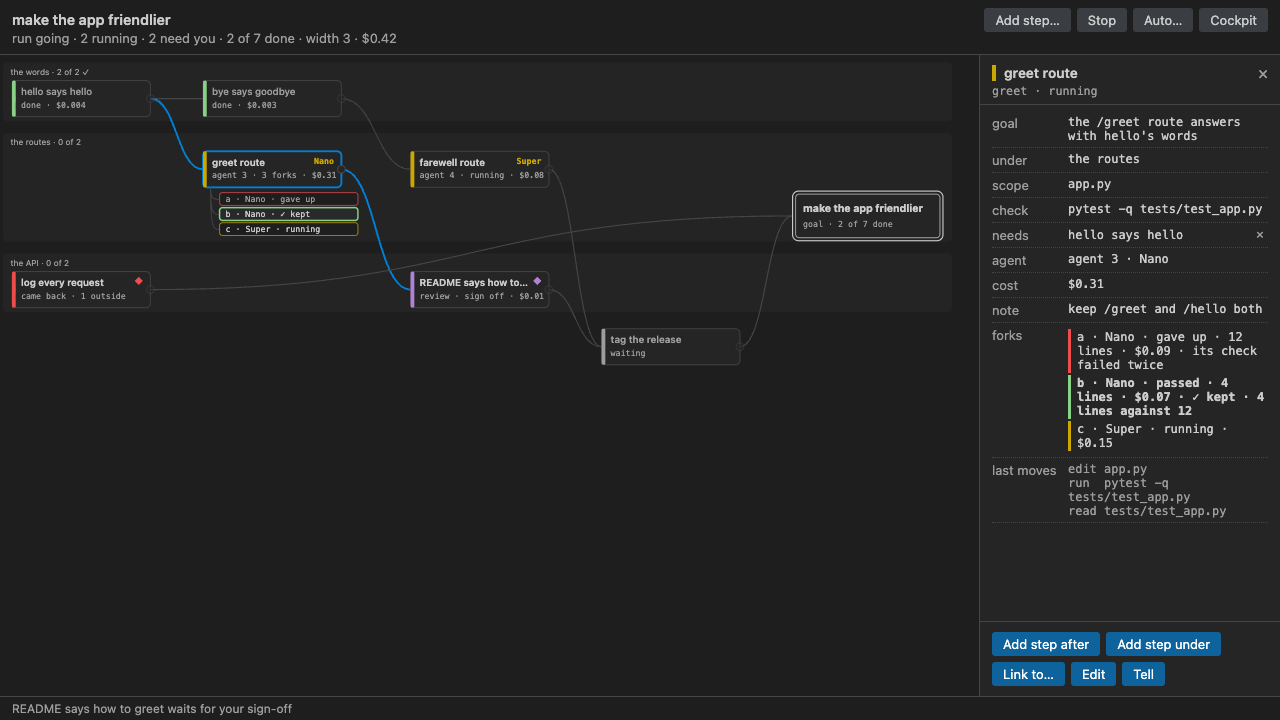
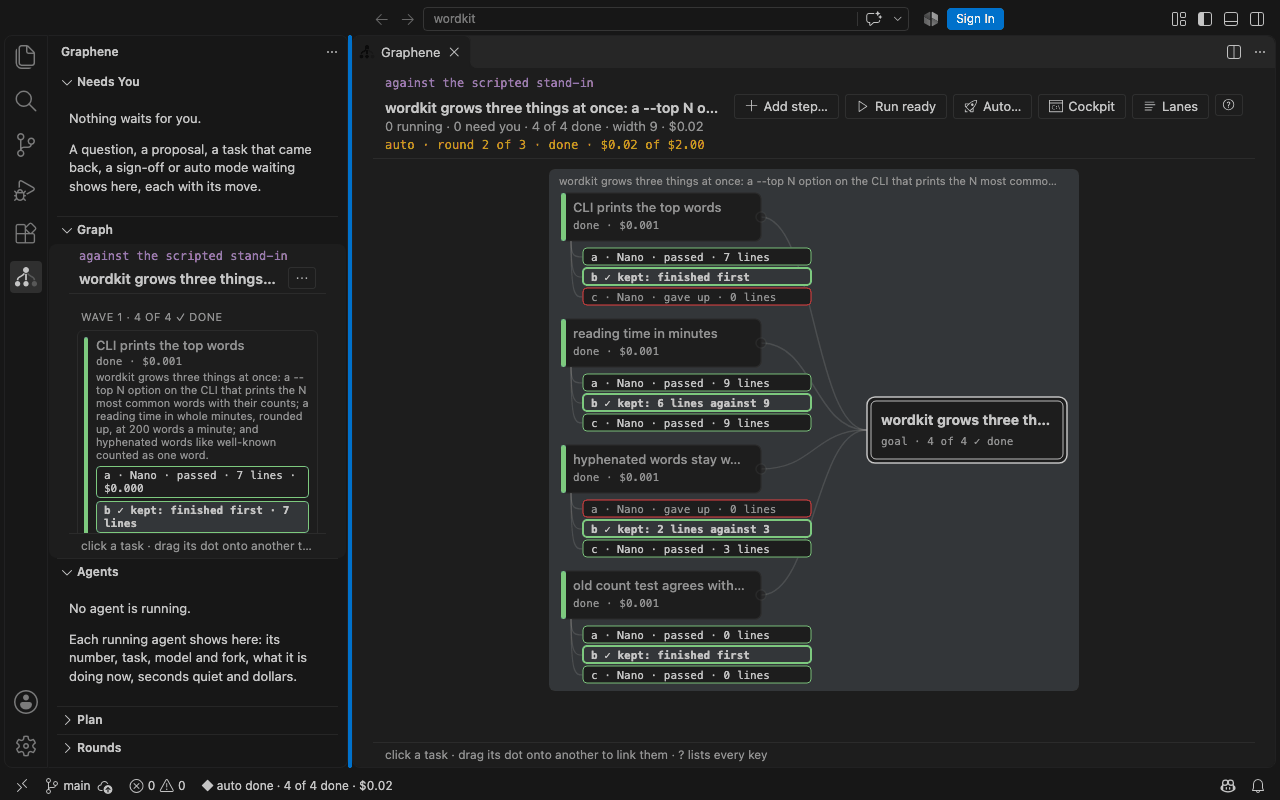
docs: the editor as it is, in real VS Code and Cursor
The README's VS Code section shows the night's extension shot by the
harness in real VS Code (dev/process/editor/after, copied over the
extension's picture), says what it does now in a few sentences, and
sends people to the .vsix on the latest release. Cursor is no longer
untried: 3.25.6 installs and activates it, and the end-to-end check
passes there. The listing page names every command and view the
manifest declares. HACKATHON, COMPARE and claims.md say what was
built and measured tonight and nothing that did not run: no live
take, a model session as the stranger, the smallest text measured
before and after.

diff --git a/editors/vscode/README.md b/editors/vscode/README.md
@@ -1,33 +1,34 @@
 # Graphene for VS Code
 
 Watch and steer a team of coding agents from your editor. Graphene holds each agent to one task, one set of
-files and one check; this extension shows the plan as a graph, the agents as they work, and what needs you.
+files and one check. This extension shows what needs you, the agents as they work, and the plan as a graph.
 
-![the graph: a running plan with three forks on one task, the kept one marked](media/graph.png)
+![Real VS Code after a race against the scripted stand-in: the graph in an editor tab, four tasks done, each with its three forks and the kept one's reason, flowing into the goal; the side bar's Needs You, Graph and Agents views](media/graph.png)
 
-It works in VS Code and in Cursor. It is a thin client over the `graphene` command: everything it shows is
-`graphene state --json`, and everything it changes is one `graphene` command, the same ones the terminal cockpit
-runs.
+It is a thin client over the `graphene` command. Everything it shows is `graphene state --json`, streamed with
+`--watch`, and everything it changes is one `graphene` command, the same ones the terminal cockpit runs.
 
 ## What you can do
 
-- **See what needs you first.** The sidebar leads with questions, proposals, hand-backs and sign-offs. Answer a
-  question from its options or in your own words, accept or drop a proposal, take up a hand-back, sign off from
-  the diff. Nothing sends you to the terminal.
-- **Watch the agents.** The Agents view lists every running agent: its number, task, model and fork, what it is
-  editing now, seconds quiet and dollars. Click one for its changes so far.
+- **See what needs you first.** Needs You leads the side bar: a question, a proposal, a task that came back, a
+  sign-off, your own task, auto mode waiting. Each row has its move inline. Answer a question from its options
+  or in your own words, accept or drop a proposal, take up a hand-back, sign off from the diff, set a missing
+  key. Nothing sends you to the terminal.
+- **Watch the agents.** Agents lists every running agent: its number, task, model and fork, what it is editing
+  now, seconds quiet and dollars. Click one for its changes so far.
 - **Open any change in the diff editor.** A task or a fork opens against its base in VS Code's own diff editor.
-  A race's forks open side by side; keep one from there.
-- **Read the race in the graph.** Tasks by state flow left to right into your goal; a forked task fans out into
-  its forks with their progress, and the kept one says why it won. It is readable in the sidebar and in a tab.
-- **Edit the plan as text.** Edit Plan opens the plan's text form in an editor tab; saving applies it, and a
-  refusal shows up as a diagnostic on its line.
-- **Add a step in a sentence.** Type one line; the planner proposes the step with its scope, check and needs,
-  and it waits for your accept.
+  A race's forks open side by side, and Keep This Fork and Sign Off sit in the diff's title.
+- **Read the race in the graph.** Tasks flow left to right into your goal. A forked task fans out into its forks
+  with their lines, dollars and seconds quiet, and the kept one says why it won. A task that came back is red,
+  with why. Narrow, the side bar draws the plan as lanes, wave by wave. Nothing is drawn under 11 px.
+- **Edit the plan as text.** Edit Plan as Text opens the plan's text form in an editor tab. Saving applies it,
+  all or none, and a refusal shows as a diagnostic on its line.
+- **Add a step in a sentence.** Type one line. The planner proposes the step with its scope, check and needs,
+  and it waits for your accept. Add Step by Hand keeps the four boxes.
 - **See whose file this is.** The Explorer marks each file a task owns, a running task's with its agent's
-  number. Open such a file and the editor offers a diff with the agent's copy.
-- **Try it with no key.** Graphene: Watch the Demo plays a scripted run in the graph, with no model and no
-  network, and says so in its header.
+  number. Open such a file and the status bar offers a diff with the agent's copy.
+- **Try it with no key.** Graphene: Watch the Demo plays a scripted run in a graph of its own, with no model
+  and no network, and its header says so.
 
 ## Install
 
@@ -37,28 +38,37 @@ runs.
    uv tool install graphene-map
    ```
 
-   The extension offers to run this for you when it cannot find `graphene`.
+   The extension offers to run this for you when it cannot find `graphene`. It looks on the PATH, in
+   `~/.local/bin` and in uv's tool directory first.
 
-2. This extension, from the `.vsix` on [the release](https://github.com/Alex-lop/Graphene/releases/latest),
+2. This extension, from the `.vsix` on [the latest release](https://github.com/Alex-lop/Graphene/releases/latest),
    or from the Marketplace (VS Code) and Open VSX (Cursor) once it is published there:
 
    ```sh
    code --install-extension graphene-0.8.0.vsix      # Cursor: cursor --install-extension graphene-0.8.0.vsix
    ```
 
-3. Open a folder. `Graphene: Set Up This Folder` runs `graphene init` in a terminal and asks who plans and who
-   does the work: Nemotron on Token Factory, Claude Code, Codex, or any model behind Graphene's own loop. Then
-   `Graphene: Auto…` takes a goal and a budget.
+3. Open a folder. `Graphene: Set Up This Folder` asks who plans and who does the work, in two picks: Nemotron on
+   Token Factory, Claude Code, Codex, or a command of your own. It runs `graphene init` in a terminal. Then
+   `Graphene: Auto…` takes a goal and a budget, and plans first.
 
 The Welcome page's **Get started with Graphene** walks through these, each step a button.
 
+## Editors
+
+VS Code 1.95 or later. In Cursor 3.25.6 (VS Code 1.128) the `.vsix` installs and activates, and the harness's
+end-to-end check passes there (`editors/vscode/e2e`). Cursor's agent layout hides the primary side bar; in its
+classic layout the views look as they do in VS Code.
+
 ## Views
 
-- **Needs You**: questions, proposals, hand-backs, sign-offs and auto mode waiting, each with its move inline.
-- **Agents**: every running agent, what it is doing, seconds quiet and dollars.
+- **Needs You**: questions, proposals, hand-backs, sign-offs, your own tasks and auto mode waiting, each with
+  its move inline, and a badge with the count.
+- **Graph**: the plan as a graph, in the side bar and as an editor tab (`Graphene: Show Plan Graph`); `?` lists
+  its keys.
+- **Agents**: every running agent, what it is doing, seconds quiet and dollars, and a badge with the count.
 - **Plan**: goal, sub-goals and tasks with a codicon per state and `model · forks · $` beside each.
 - **Rounds**: auto mode's iterations, what the envelope accepted, which fork each task kept and what landed.
-- **Graph**: the plan as a graph, in the sidebar and as an editor tab (`Graphene: Show Plan Graph`).
 - **Explorer** marks and a **status bar** item: `◆ 2 running · 1 needs you · $0.42`; click it for the graph.
 
 ## Commands
@@ -74,6 +84,8 @@ All under `Graphene:` in the command palette; most are also in the views' menus 
 | Accept / Accept All | a proposal, or all of them |
 | Take Up the Hand-Back… | a task that came back: widen it, reopen its owner, or try again |
 | Sign Off | a task waiting on you, from its diff |
+| Mark Your Task Done | a task of your own: `graphene node done` in a terminal, where its check runs |
+| Set Key… | `graphene key set` in a terminal, a hidden prompt; offered when a run waits on a key |
 | Open Changes / Compare Forks / Keep This Fork | a task or fork in the diff editor; a race side by side; the one to keep |
 | Edit Plan as Text | the plan's text form in an editor tab; save applies it |
 | Add Step… | one sentence; the planner proposes the step |
@@ -81,7 +93,7 @@ All under `Graphene:` in the command palette; most are also in the views' menus 
 | Link… / Edit Step… / Drop Step | B waits on A; title, scope or check; drop it (`graphene plan undo` puts it back) |
 | Tell Agent… | one line a hooked agent reads before its next write |
 | Diff with the Agent's Copy | the open file against the running agent's version |
-| Watch the Demo | a scripted run in the graph, no key and no network |
+| Watch the Demo | a scripted run in a graph of its own, no key and no network |
 | Show Plan Graph / Open Cockpit | the graph as a tab; `graphene watch` in a terminal |
 | Set Up This Folder / Install Graphene… / Refresh | `graphene init`; `uv tool install graphene-map`, after you say yes; read the plan again |
 
@@ -106,12 +118,15 @@ All under `Graphene:` in the command palette; most are also in the views' menus 
 - **A click in VS Code is the person's.** An editor started from an agent's shell inherits the agent's marks
   (`CLAUDECODE`, `CODEX_SESSION_ID`, …); the extension takes them out of everything it runs, so your accept
   is a person's.
+- **The demo stays out of your folder.** Watch the Demo plays into a directory under the OS temp dir, and
+  closing its graph removes it.
 
 ## Limits
 
 - It needs Graphene 0.9 or later for the Agents view, the diffs, the text plan and the demo; with an older CLI
   each view says what the CLI said, and the plan is polled instead of streamed.
 - One plan per window: the first workspace folder with a store.
+- Nobody has used it on a real run yet. It was built and checked against a fixture and a scripted stand-in.
 
 Source, issues and the CLI: [github.com/Alex-lop/Graphene](https://github.com/Alex-lop/Graphene). Licence
 Apache-2.0.

diff --git a/docs/HACKATHON.md b/docs/HACKATHON.md
@@ -54,8 +54,10 @@ lands. Then the goal's own check runs on the merged result, and when it is red U
 rounds you allowed. Token Factory is what makes a race on every task affordable: the replay's whole run, two plans
 by Ultra and twelve Nano forks, cost $0.02 at the scripted stand-in's prices (`tests/test_demo_auto.py`), and
 `graphene demo --auto` replays it with no key. The same plan, forks racing, shows in VS Code (`editors/vscode`):
-drag one task's dot onto another to link them, the Explorer marks each file a running agent writes with its
-number, and every click is a `graphene` command run as you.
+Needs You first, each thing that waits for you with its move; every running agent with what it edits, its
+seconds quiet and its dollars; a task's changes in the diff editor; and every click a `graphene` command run as
+you. The `.vsix` is on each GitHub release, and a harness drove it in real VS Code 1.143.1 and Cursor 3.25.6
+(`editors/vscode/e2e`).
 
 **On NVIDIA Nemotron, through Nebius Token Factory: the path built for this hackathon.** `graphene init --planner
 nemotron --executor nemotron` reads Token Factory's live model list: Nemotron 3 Ultra plans, Nano does the tasks,
@@ -154,7 +156,11 @@ runs unless you run it, or set `GRAPHENE_SHAPE` to run them after each `graphene
   own settings and hooks; the goal's check is a root sub-goal's, run after its tasks land; each round is a row of
   the plan's log, so the history is there the morning after (`tests/test_auto_run.py`, `tests/test_auto_nemotron.py`).
 - **The editor** is a thin client: Graphene for VS Code (`editors/vscode`, TypeScript, no runtime dependencies)
-  reads `graphene state --json`, the cockpit's own snapshot, and runs `graphene` commands for every change.
+  reads `graphene state --json`, the cockpit's own snapshot, streamed with `--watch`, and runs `graphene`
+  commands for every change. A harness (`editors/vscode/e2e`, Playwright's Electron driver) installs the
+  `.vsix` in a profile of its own in real VS Code and Cursor, races a fixture against the scripted stand-in and
+  measures what it sees. The before and after of 27 October are in `dev/process/editor/`: the smallest text the
+  side bar drew went from 4.61 px at 280 px wide to 11 px at every width and theme.
 - **Any OpenAI-compatible host**: the same Nemotron loop runs on NVIDIA's API catalog (NIM), Ollama or any other
   host with `--endpoint`, the writes held the same way; only a host on your machine counts as a stand-in.
 - **Built the way it is meant to be used.** I set the direction and coding agents do much of the writing, in lanes,
@@ -183,6 +189,11 @@ runs unless you run it, or set `GRAPHENE_SHAPE` to run them after each `graphene
   `.git/hooks/` (on a Mac's case-blind disk, `.CLAUDE/` and `.GIT/` too); a planner's check run unread (now one
   plain command, or one you name in `checks:`); an agent's own `graphene run` outside the budget; and a task whose
   check already passed before any work, which would have landed with nothing done (`dev/process/revamp/README.md`).
+- **A stranger's first hour hit the key.** A model session that had never seen Graphene, on 0.8.0's extension
+  with a stand-in in place of Token Factory, took 11 minutes to its first graph and 28 to its first accept from
+  it, with nine guesses. The worst wall was a 401 that no surface said how to fix
+  (`dev/process/editor/before/stranger.md`). Now the refusal names `graphene key set`, the extension offers Set
+  Key, Auto… leads with Plan first, and a task that came back can be dropped from the editor.
 - **Where the agent loop runs decides what can be refused.** With Graphene's own loop on your machine and the
   tools in the sandbox, an out-of-scope write was refused in Graphene's words before it happened, 3 runs of 3.
   With a harness inside the sandbox (OpenCode 1.18.31), Graphene never heard of it in 3 of 3, the key sat where
@@ -246,8 +257,9 @@ while one the repository cannot answer is open (`dev/test/results-2026-09-29-boa
 
 - A live take of auto mode on Token Factory, filmed for the video: auto mode has run end to end only against the
   scripted stand-in so far. And an hour of a real person on it, timed: no person has been timed yet.
-- Graphene for VS Code on the Marketplace and Open VSX, and the graph's gestures (add a step, link two) answering
-  a board question too.
+- Graphene for VS Code on the Marketplace and Open VSX: the workflow is written, the listing is the publisher's
+  own step. And a person on the editor, timed: tonight's stranger was a model session, and the harness measured
+  pixels and seconds, not a person.
 - Whether a race of three Nanos lands more tasks than one, measured on the same tasks with its pass rate and its
   dollars; the held bench has the question written down (`dev/held/rules.md`).
 - `t` heard mid-task by Nemotron's executor, as Claude Code hears it; today it is told at the task's next start.
@@ -284,7 +296,9 @@ August 2026.
   its next write. 17 and 18 October, `graphene watch` became the cockpit, and agents go by numbers, kept by their
   task through a retry. 20 October, forks: several agents on one task, a rule keeping one. 26 October, auto mode
   inside an envelope, the race on screen with each agent's model, Graphene for VS Code, and any OpenAI-compatible
-  host behind Graphene's own loop.
+  host behind Graphene's own loop. 27 October, Graphene for VS Code led by Needs You and Agents, diffs in the
+  diff editor, the plan as text, a step in a sentence, the demo in the editor, a harness that drives real VS
+  Code and Cursor, and the gate judging a write where it lands.
 
 Commands: `git rev-list --count --until='2026-08-26T16:00:00Z' 921834de`, `git rev-list --count
 --since='2026-08-26T16:00:00Z' 921834de`, and `git blame --line-porcelain 921834de` over its `src/*.py`, counting
@@ -369,6 +383,8 @@ checked again since.
 | 2 ms on this repository's plan, 53 ms at 22,000 log rows | `tests/test_cockpit_cost.py`, its docstring |
 | auto mode: 2 rounds, 4 tasks landed, 12 forks raced, $0.0193 at the stand-in's prices | `tests/test_demo_auto.py` (the scripted stand-in, no model ran) |
 | 27,469 lines, none before the period; 181 and 971 commits | git, the commands above, at `921834de` |
+| a stranger on 0.8.0's extension: 11 minutes to the first graph, 28 to the first accept from it, 9 guesses | `dev/process/editor/before/stranger.md` (one model session with a driver, not a person; a stand-in in place of Token Factory) |
+| the side bar's smallest text, 4.61 px at 280 px wide before and 11 px at every width after; 2.69 s from install to the first graph and p50 574 ms from a store write to the screen, before | `dev/process/editor/before/README.md`, `dev/process/editor/after/code-smallest-text.json` (the harness, `editors/vscode/e2e/measure/`) |
 | the questions against the paragraph; the plan against the paragraph with Nemotron | none yet: registered in `dev/test/results-2026-09-28-shaping.md` and `dev/test/results-2026-09-28-live-prereg.md` |
 
 ## Testing instructions
@@ -385,6 +401,10 @@ uvx --from graphene-map graphene demo --cheat  # a script tries seven ways round
 In the cockpit, `j` and `k` move, `i` opens the details, `g` the graph, `m` the map, `c` the cockpit again, `?`
 lists the keys and `q` leaves; in a replay, space pauses, `.` steps and `r` plays it again. Keys that would change
 the plan say "a replay: nothing runs here".
+
+In VS Code, with no key: install the `.vsix` attached to the latest GitHub release (`code --install-extension`),
+open any folder, and run `Graphene: Watch the Demo` from the command palette. The auto replay plays in a graph
+of its own, and its header says it is a stand-in's.
 
 Both live Nemotron runs on Token Factory, replayed with no key, from a clone (`--live` is the first):
 

diff --git a/dev/launch/claims.md b/dev/launch/claims.md
@@ -3,7 +3,7 @@
 Each claim names the file that shows it and how strong the showing is: **measured** (a number from a run that
 could have gone the other way), **shown** (a test or a command anyone can run), **stand-in** (a scripted or model
 reader, not a person), or **not shown**. Written 15 October 2026 for the 0.5.1 launch, with the hackathon's
-Nemotron claims added on 18 October; re-read before posting.
+Nemotron claims added on 18 October and the editor's on 27 October; re-read before posting.
 
 ## May be said
 
@@ -30,8 +30,10 @@ Nemotron claims added on 18 October; re-read before posting.
 | Auto mode on the Nemotron path ran end to end against the scripted Token Factory: three tasks, nine forks at once, the goal's check red, Ultra's fix, the suite green, $0.0193 at the stand-in's prices | tests/test_demo_auto.py; `graphene demo --auto` | shown; a scripted stand-in, no model ran; no live auto run |
 | In auto mode, a round waits for the person when a task it can start has a check that passes before any work (it would land with nothing done) | tests/test_auto_run.py | shown, with scripted agents; a task that waits on another is not checked first |
 | Every agent's row names its model, and each fork its own, with its dollars | tests/test_race_read.py, tests/test_race_rows.py | shown, with scripted agents and the recordings |
-| Graphene for VS Code shows the plan as a graph and runs a `graphene` command for every change; it activated and registered its commands in VS Code 1.143 | editors/vscode/test/*.test.ts, editors/vscode/test/smoke.cjs; tests/test_vscode_cli.py | shown; not on the Marketplace, not tried in Cursor |
-| In the graph a drag from one task's dot onto another links them, and an × unlinks; the Explorer marks each file a running task writes with its agent's number, reading scope globs as the CLI does | editors/vscode/test/commands.test.ts, editors/vscode/test/owners.test.ts, tests/test_vscode_cli.py, tests/test_vscode_scope_parity.py | shown: the argv on the real CLI, the globs against 208 of its answers; the drag tried in the preview page in Chromium, not in VS Code; the marks not yet seen on a live run |
+| Graphene for VS Code shows what needs you first, every running agent, the plan as a graph and a task's changes in the diff editor, and runs a `graphene` command for every change; its `.vsix` installed, activated and drew a plan's tasks in real VS Code 1.143.1 and Cursor 3.25.6, driven by the harness | editors/vscode/test/*.test.ts; editors/vscode/e2e (`npm test`, and with `E2E_APP=cursor`); tests/test_vscode_cli.py, tests/test_editor_*.py | shown, with a fixture and the scripted stand-in; no person has used it; not on the Marketplace or Open VSX yet |
+| In the graph a drag from one task's dot onto another links them, and an × unlinks; the Explorer marks each file a running task writes with its agent's number, reading scope globs as the CLI does | editors/vscode/test/commands.test.ts, editors/vscode/test/owners.test.ts, tests/test_vscode_cli.py, tests/test_vscode_scope_parity.py; dev/process/editor/take/beat6-editor-explorer-owners.png | shown: the argv on the real CLI, the globs against 208 of its answers; the marks seen in the harness's VS Code during a stand-in race; the drag tried in the preview page in Chromium, not in VS Code |
+| The smallest text the extension draws in the side bar went from 4.61 px at 280 px wide to 11 px at every width and theme, and in the tab from 10.74 to 11 px | dev/process/editor/before/README.md, dev/process/editor/after/code-smallest-text.json (`editors/vscode/e2e/shots.mjs`, the same script both times) | measured by the harness, before and after |
+| A stranger on 0.8.0's extension took 11 minutes to its first graph and 28 to its first accept from the graph, with 9 guesses; the worst wall was a missing key no surface said how to set | dev/process/editor/before/stranger.md | stand-in: one model session with a driver, not a person; on 0.8.0, before the night's changes |
 | A cloned folder's own settings cannot choose the binary Graphene for VS Code runs, the extension is off in a folder VS Code does not trust, and its hovers show the plan's words as text, never as links or images | tests/test_vscode_packaging.py, editors/vscode/test/state.test.ts | shown: the manifest and the escaping; the hovers not looked at in VS Code |
 | The same Nemotron loop runs on NVIDIA NIM, Ollama or any OpenAI-compatible host, writes refused the same way; an agent's call to a paid host off this machine is refused without the opening | tests/test_anymodel_endpoints.py | shown against the scripted host; no live call to NIM, Ollama or another host |
 | Every agent a run starts gets a `PORT` of its own, per task and per fork, given to its check too | tests/test_anymodel_ports.py | shown, with scripted agents |
@@ -44,6 +46,13 @@ Nemotron claims added on 18 October; re-read before posting.
 - "The only tool that...", "nobody else does this", "best controller". A per-task file scope with checks exists for
   another agent (my-pi) and a kernel write lock for nine agents (Ralon): docs/COMPARE.md, dev/PRODUCT_THESIS.md.
 - Anything about real people's speed or ease. No person has been timed: dev/process/first-hour.md is how to get one.
+- That a person has used the editor, or how long one takes on it. The stranger of 27 October was a model session,
+  and the harness measured pixels, seconds and CPU, not a person.
+- That the editor got faster. The after measured the smallest text; the first graph, the latency and the idle
+  CPU are measured on the before only (dev/process/editor/before/README.md) until the same scripts are run on
+  the after and written beside it.
+- That the extension is on the Marketplace or Open VSX. The workflow is written (docs/RELEASING.md); the listing
+  is a step the publisher takes.
 - That the demo is a real model run, or that the replay's dollars are real costs.
 - That a hook cannot be bypassed. It fails open if it cannot run on a Claude Code before 2.1.295, or where `graphene
   init` ran from a script (from 2.1.295, `init` at a terminal makes it fail closed); git catches the change at done

diff --git a/docs/COMPARE.md b/docs/COMPARE.md
@@ -17,7 +17,7 @@ Teams were read from their docs on 18 October ([`field.md`](../dev/process/publi
 
 | | A plan before code | The files a piece may change | A check the tool runs itself | A look at the diff before the merge |
 |---|---|---|---|---|
-| **Graphene**, with Claude Code | a tree you edit and accept | per leaf; a write outside is refused before it happens (Claude Code, and Graphene's own loop for Nemotron and the other hosts; git catches the rest at `done`) | yes, in a clean copy | a leaf marked for sign-off, or every leaf under `review: every`, waits on its branch, and `i` then `c` in the cockpit shows its diff |
+| **Graphene**, with Claude Code | a tree you edit and accept | per leaf; a write outside is refused before it happens (Claude Code, and Graphene's own loop for Nemotron and the other hosts; git catches the rest at `done`) | yes, in a clean copy | a leaf marked for sign-off, or every leaf under `review: every`, waits on its branch, and `i` then `c` in the cockpit shows its diff; in VS Code, Open Changes shows it in the diff editor, and Needs You lists what waits for you |
 | Claude Code, by itself | plan mode; its docs say it is not enforced in interactive sessions where bypass is available | static allow and deny rules, not per piece | only if you write a hook | see Agent View |
 | Claude Code Agent View | each session's own; it is "one screen for all your background sessions: what's running, what needs your input, and what's done" | each session's allow and deny rules | no; a row's pull request label is coloured by its checks | "`Ready for review` and `Needs input` above `Working` and `Completed`", and no diff column |
 | Claude Code Agent Teams (experimental) | a shared task list; a teammate's plan can be approved "without the lead reviewing it" | by convention: "Two teammates editing the same file leads to overwrites. Break the work so each teammate owns a different set of files." | a task is done by its status ("Task status can lag"); a `TaskCompleted` hook you write can block it | not read |
@@ -36,7 +36,7 @@ Teams were read from their docs on 18 October ([`field.md`](../dev/process/publi
 
 | | Attempts at once | Who keeps one |
 |---|---|---|
-| **Graphene** | `forks: N` on a task, `graphene run --forks N`, or the `forks` setting: N agents, each in a copy of its own | the task's check runs on each; among the forks that pass, a rule written before any ran keeps one (`src/graphene_map/pick.py`: the one that passes the most of the others' tests, then the one that left its check's files alone, the smaller, the cheaper, the sooner) and says which step decided; on a task in review the person can pick another (`graphene node pick`) |
+| **Graphene** | `forks: N` on a task, `graphene run --forks N`, or the `forks` setting: N agents, each in a copy of its own | the task's check runs on each; among the forks that pass, a rule written before any ran keeps one (`src/graphene_map/pick.py`: the one that passes the most of the others' tests, then the one that left its check's files alone, the smaller, the cheaper, the sooner) and says which step decided; on a task in review the person can pick another (`graphene node pick`; in VS Code, Compare Forks opens them side by side and Keep This Fork picks one) |
 | Codex cloud | "generate multiple responses simultaneously for a single task" (OpenAI's X account, 13 June 2025, as its community forum quotes it; its docs pages read say nothing of it) | the person: "explore possible solutions and pick the best approach" |
 | Cursor | "multiple agents in parallel" on one prompt (its changelog for 2.2, 10 December 2025) | Cursor: it evaluates every run once they have all finished and recommends one; "The selected agent will have a comment explaining why it was picked." The entry names no check and does not say what judges |
 | VS Code 1.143 (Compare Models, preview) | "Add between two and 10 attempts", each "in its own Git worktree" (code.visualstudio.com/docs/agents/run/compare-models, read 26 October 2026) | an optional judge model "evaluates the attempts and recommends a solution", whose assessment, its page says, "isn't proof that an implementation is correct"; then the person, or Synthesize |
@@ -69,7 +69,8 @@ the check it must pass, a write outside those files refused as it happens, the c
 and a piece landed only when it passes, on your machine with no account. That is the claim, and it is scoped: my-pi
 has a per-task file scope with checks for another agent, and Ralon locks writes more strongly than a hook does, from
 one static list. Claude Code's Agent View gives every session a row and its Agent Teams a shared task list; both
-leave the files to convention. Nobody here is "the only one".
+leave the files to convention. Graphene for VS Code's Needs You and Agents views are those two rows, held to a
+plan's files; nobody has used them on a real run yet. Nobody here is "the only one".
 
 What Graphene lacks, in this table: it holds a write before it happens only for Claude Code (for Codex and any other
 command, git finds it when the leaf is declared done); its hook fails open if it cannot run on a Claude Code before

diff --git a/README.md b/README.md
@@ -89,15 +89,21 @@ may write; `:auto <goal>` starts auto mode from the cockpit.
 
 ### In VS Code
 
-![Graphene for VS Code: the plan as a graph in an editor tab, a task's three forks with their models and the kept one, the details of the selected task, and the buttons that add a step after it, link it, edit it or tell its agent](https://raw.githubusercontent.com/Alex-lop/Graphene/main/editors/vscode/media/graph.png)
+![Graphene for VS Code after a race against the scripted stand-in, in real VS Code: the plan as a graph in an editor tab, four tasks done, each fanned out into its three forks with the kept one and why, flowing into the goal; the auto line says round 2 of 3, done, $0.02 of $2.00; in the side bar, Needs You with nothing waiting, the Graph as lanes, and Agents](https://raw.githubusercontent.com/Alex-lop/Graphene/main/editors/vscode/media/graph.png)
 
-The extension in [`editors/vscode`](https://github.com/Alex-lop/Graphene/blob/main/editors/vscode/README.md) shows
-the same plan in an editor tab and a sidebar: the graph, the forks racing, the rounds of auto mode, the status bar
-(`◆ 2 running · 1 needs you · $0.42`), and in the Explorer whose each file is, a running agent's marked with its
-number. Every click is a `graphene` command run as you: add a step, link two by dragging one's dot onto the other
-(an × unlinks them), edit, drop, accept, tell an agent, and **Graphene: Auto…** for a goal. It reads `graphene
-state --json`, so the cockpit and the editor never disagree. It is built for VS Code 1.95 and later, so its forks
-such as Cursor should load it (not tried there yet).
+The extension in [`editors/vscode`](https://github.com/Alex-lop/Graphene/blob/main/editors/vscode/README.md) is
+the same plan in your editor. Needs You comes first in the side bar: a question, a proposal, a task that came
+back, a sign-off, each with its move. Agents lists every running agent, what it edits now, its seconds quiet and
+its dollars. The graph shows the race: a task fans out into its forks as they work, and the kept one says why it
+won. A task's changes open in VS Code's own diff editor, a race's forks side by side. The plan opens as text, and
+saving applies it. Add Step takes one sentence, and the planner proposes the step. Watch the Demo plays the race
+with no key. Every click is a `graphene` command run as you, and it reads `graphene state --json`, the cockpit's
+own snapshot, so the two never disagree.
+
+Install the `.vsix` attached to [the latest release](https://github.com/Alex-lop/Graphene/releases/latest) with
+`code --install-extension`, or from the Marketplace and Open VSX once they list it. It is built for VS Code 1.95
+or later. In Cursor 3.25.6 (VS Code 1.128) it installs and activates, and the harness's end-to-end check passes
+there.
 
 ## Any agent, any model
 
